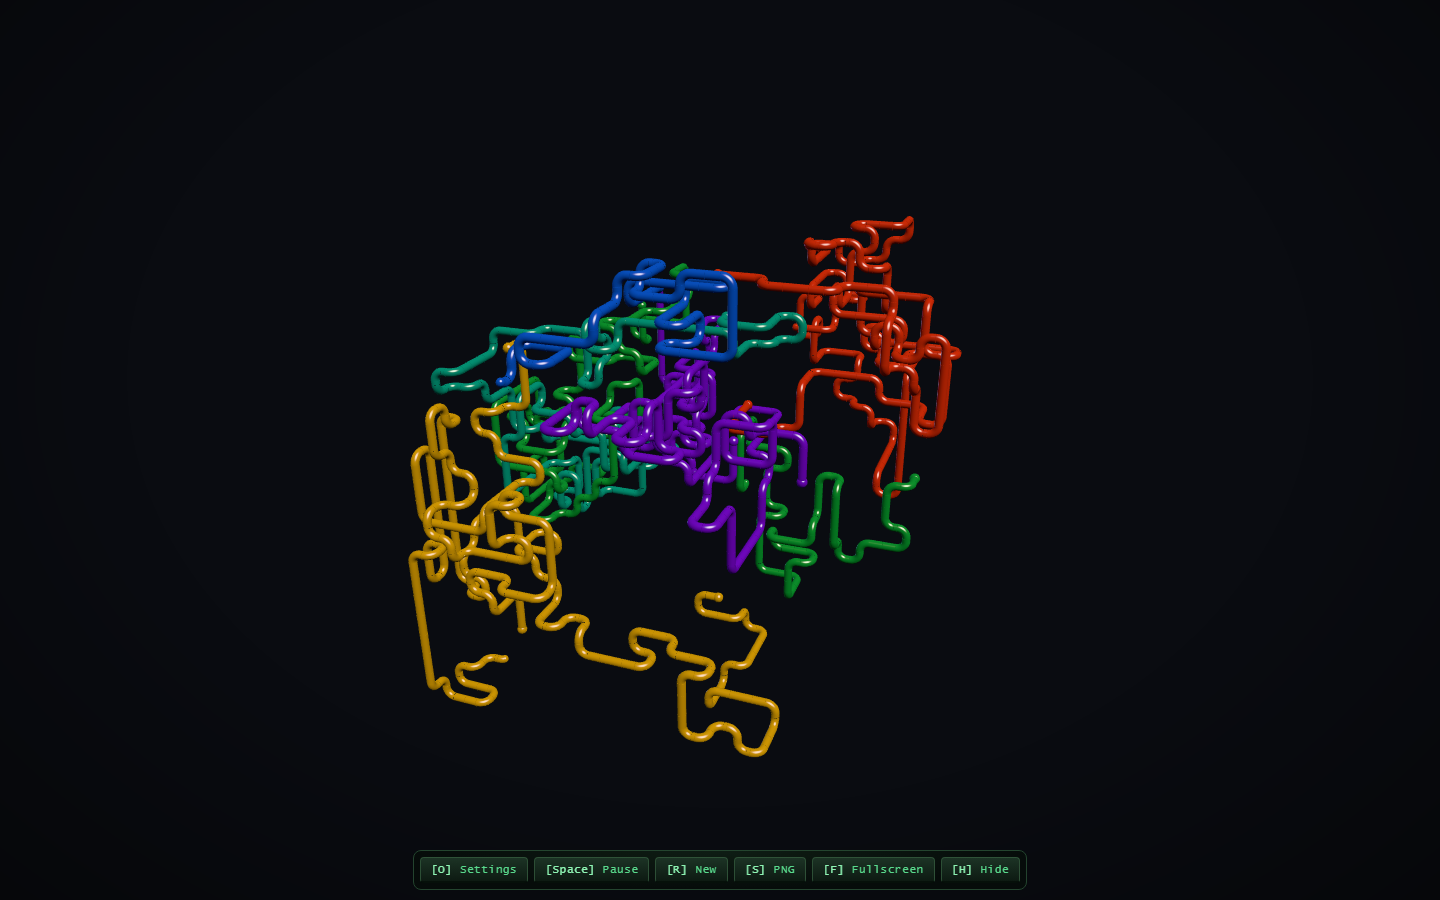
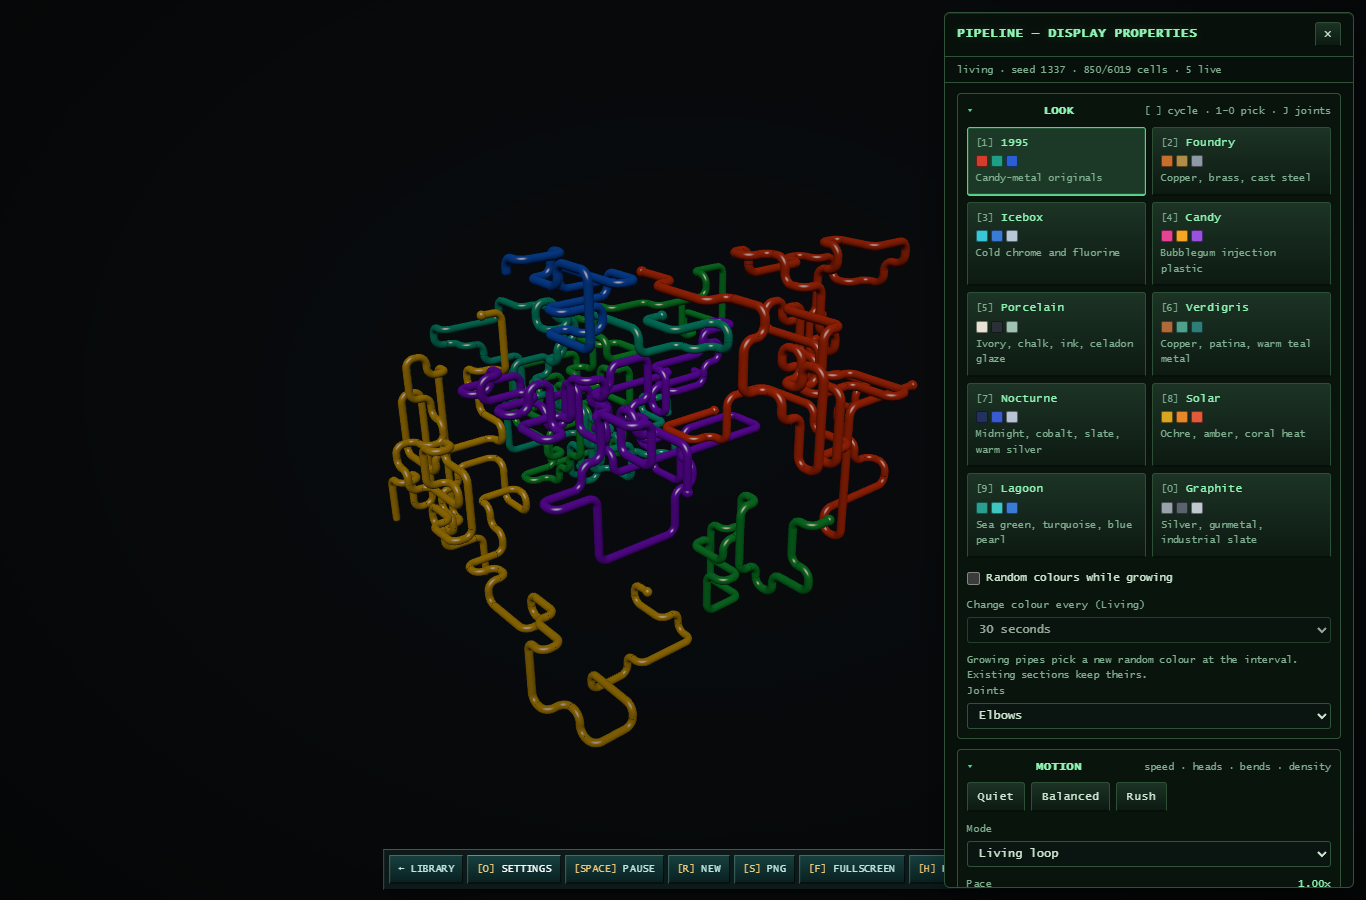
fix: restore Liquid Worlds controls and record collection checks

diff --git a/liquid-worlds/js/app.js b/liquid-worlds/js/app.js
@@ -19,6 +19,13 @@ if(params.has('seed'))settings.seed=validate({seed:Number(params.get('seed'))}).
 function toast(text){$('toast').textContent=text;toastUntil=performance.now()+2600;$('toast').classList.add('visible');}
 function persist(){save(storage,settings);}
 function wake(){lastInteraction=performance.now();if(!hiddenControls)document.body.classList.remove('quiet');}
+function toggleControls(){
+  hiddenControls=!document.body.classList.contains('quiet');
+  document.body.classList.toggle('quiet',hiddenControls);
+  if(hiddenControls)canvas.focus({preventScroll:true});
+  else wake();
+}
+$('restore').addEventListener('click',()=>{hiddenControls=false;wake();canvas.focus({preventScroll:true});});
 function sync(){
   const current=SCENES.find(s=>s.id===settings.scene),index=SCENES.indexOf(current);
   document.documentElement.style.setProperty('--accent',current.color);
@@ -83,7 +90,7 @@ for(const [i,s] of SCENES.entries()){
   const gradients=['radial-gradient(ellipse at 65% 70%,#a8eef1 0%,#344d65 25%,#08121d 75%)','linear-gradient(130deg,#101d2b 15%,#da9559 48%,#596978 65%,#18232c)','linear-gradient(130deg,#bfc790,#537c49 40%,#88c9bd 65%,#1a4949)'];
   b.innerHTML=`<span class="swatch" style="background:${gradients[i]}"></span><span><strong>${s.name}</strong><small>${s.subtitle}</small></span>`;b.addEventListener('click',()=>travel(s.id));$('scenes').append(b);
 }
-for(const [id,fn] of Object.entries({prev:()=>next(-1),next:()=>next(),pause:togglePause,settingsButton:()=>setPanel(true),close:()=>setPanel(false),fullscreen,snapshot,hide:()=>{hiddenControls=true;document.body.classList.add('quiet');canvas.focus();},applySeed:()=>{settings.seed=validate({seed:Number($('seed').value)}).seed;persist();sync();travel(settings.scene);},newSeed:()=>{settings.seed=(settings.seed+7919)%2147483648;persist();sync();travel(settings.scene);},resetCamera:()=>{view?.reset();dirty=true;toast('View restored');}}))$(id).addEventListener('click',fn);
+for(const [id,fn] of Object.entries({prev:()=>next(-1),next:()=>next(),pause:togglePause,settingsButton:()=>setPanel(true),close:()=>setPanel(false),fullscreen,snapshot,hide:toggleControls,applySeed:()=>{settings.seed=validate({seed:Number($('seed').value)}).seed;persist();sync();travel(settings.scene);},newSeed:()=>{settings.seed=(settings.seed+7919)%2147483648;persist();sync();travel(settings.scene);},resetCamera:()=>{view?.reset();dirty=true;toast('View restored');}}))$(id).addEventListener('click',fn);
 $('backdrop').addEventListener('click',()=>setPanel(false));
 for(const id of ['quality','speed','activity','camera','interval','bloom','cycle']){
   $(id).addEventListener(['speed','activity'].includes(id)?'input':'change',()=>{
@@ -111,7 +118,7 @@ document.addEventListener('keydown',e=>{
   if(k==='o'){setPanel(!panelOpen);e.preventDefault();return;}
   if(panelOpen)return;
   if(k===' '){togglePause();e.preventDefault();}
-  else if(k==='f')fullscreen();else if(k==='s')snapshot();else if(k==='h')$('hide').click();
+  else if(k==='f')fullscreen();else if(k==='s')snapshot();else if(k==='h')toggleControls();
   else if(k==='a'){settings.camera=settings.camera==='drift'?'fixed':'drift';view?.reset();persist();sync();dirty=true;toast(settings.camera==='drift'?'Camera drifting':'Viewpoint held');}
   else if(k==='r')$('newSeed').click();else if((k==='['||k==='p'))next(-1);else if((k===']'||k==='n'))next();else if(['1','2','3'].includes(k))travel(SCENES[Number(k)-1].id);
   wake();

diff --git a/liquid-worlds/style.css b/liquid-worlds/style.css
@@ -14,8 +14,11 @@ button:focus-visible,input:focus-visible,select:focus-visible,summary:focus-visi
 .drop-mark { color:var(--accent); font-size:28px; vertical-align:middle; }
 #chrome { position:fixed; inset:0; pointer-events:none; opacity:1; transition:opacity .9s ease; background:linear-gradient(#0003,transparent 22%,transparent 65%,#0004); }
 body.quiet #chrome { opacity:0; }
+body.quiet #toast { opacity:0; }
 body.quiet #canvas { cursor:none; }
 body.quiet #chrome button { pointer-events:none; }
+#restore { display:none; position:fixed; left:12px; bottom:max(12px,env(safe-area-inset-bottom)); z-index:4; padding:8px 10px; }
+body.quiet #restore { display:block; opacity:.85; }
 .masthead { display:flex; justify-content:space-between; align-items:center; padding:26px 34px; font-size:10px; letter-spacing:2.2px; text-shadow:0 2px 10px #000; }
 .brand { font-weight:600; }.brand .drop-mark { margin-right:9px; }.edition { opacity:.6; font-size:9px; }
 .scene-caption { position:absolute; left:34px; bottom:122px; text-shadow:0 2px 12px #0008; }

diff --git a/liquid-worlds/index.html b/liquid-worlds/index.html
@@ -31,6 +31,7 @@
     </nav>
     <p class="hint">DRAG TO LOOK · CLICK WATER TO SPLASH · 1 / 2 / 3 TO TRAVEL</p>
   </div>
+  <button id="restore" aria-label="Show controls" title="Show controls">Controls</button>
   <div id="toast" role="status" aria-live="polite"></div>
   <div id="backdrop" hidden></div>
   <aside id="panel" role="dialog" aria-modal="true" aria-labelledby="panelTitle" hidden>

diff --git a/tools/check-collection.py b/tools/check-collection.py
@@ -75,6 +75,23 @@ with sync_playwright() as p:
                 page.screenshot(path=str(ART/(name+"-portrait.png")))
                 page.keyboard.press("Escape")
                 if name=="liquid-worlds":
+                    page.keyboard.press("h")
+                    check("liquid H hides controls",page.evaluate("document.body.classList.contains('quiet')"))
+                    page.wait_for_function("getComputedStyle(document.getElementById('chrome')).opacity === '0'")
+                    page.screenshot(path=str(ART/"liquid-hidden-controls-portrait.png"))
+                    page.keyboard.press("h")
+                    check("liquid H restores controls",not page.evaluate("document.body.classList.contains('quiet')"))
+                    page.keyboard.press("h")
+                    page.locator("#restore").click()
+                    check("liquid restore works without a keyboard",not page.evaluate("document.body.classList.contains('quiet')"))
+                    page.evaluate("document.body.classList.add('quiet')")
+                    page.keyboard.press("h")
+                    check("liquid H restores automatically faded controls",not page.evaluate("document.body.classList.contains('quiet')"))
+                    page.locator("#"+settings).click()
+                    page.locator("#seed").focus()
+                    page.keyboard.press("h")
+                    check("liquid typing does not hide controls",not page.evaluate("document.body.classList.contains('quiet')"))
+                    page.keyboard.press("Escape")
                     before=page.evaluate("LIQUID_WORLDS.settings.scene")
                     page.keyboard.press("n")
                     page.wait_for_timeout(900)

diff --git a/liquid-worlds/README.md b/liquid-worlds/README.md
@@ -25,7 +25,7 @@ This is a browser screensaver, like the sibling projects. It does not install a 
 | **The Crucible** | Three pipe outlets pour rippling metal into a reservoir beneath catwalks and amber windows. A submerged vortex and intersecting impact rings bend the reflected structure. |
 | **Verdant Reach** | A waterfall feeds clear, refractive water over a stone riverbed. Foam collects near the fall and banks, leaves drift downstream, and the canopy moves in the morning light. |
 
-Settings start closed. The title and toolbar fade after seven seconds without interaction. Moving the pointer or using the keyboard reveals them. **H** hides them until **Esc**. The scene keeps running with settings open; paused scenes still allow camera movement, scene changes, and snapshots.
+Settings start closed. The title and toolbar fade after seven seconds without interaction. Moving the pointer or using the keyboard reveals them. **H** toggles the controls; **Esc** or the **Controls** button also restores them. The scene keeps running with settings open; paused scenes still allow camera movement, scene changes, and snapshots.
 
 ## Controls
 
@@ -36,7 +36,7 @@ Settings start closed. The title and toolbar fade after seven seconds without in
 | Choose scene | **1**, **2**, **3** |
 | Previous / next | **[** / **]** |
 | Fullscreen | **F** |
-| Clean view | **H**; **Esc** restores |
+| Hide / show controls | **H**; **Esc** or **Controls** also restores |
 | Save scene as PNG | **S** |
 | Camera drift / still | **A** |
 | New seeded landscape | **R** |

diff --git a/README.md b/README.md
@@ -42,5 +42,8 @@ The local server is required for the projects that use JavaScript modules.
 - Each project's original README and regression checks remain in its folder.
 
 Only the six named projects were moved from projects-js. Its Git history retains
-their original versions. The source repository's deletions are left uncommitted;
-the initial collection commit belongs to this screensavers repository.
+their original versions. The source repository's migration deletions are recorded
+in Git, and all 226 former source paths have corresponding files in this collection.
+
+
+November 14, 2026 publication check: all six projects opened from the library, settings and portrait controls fit, and Liquid Worlds controls restored with H and the visible Controls button. The collection browser checks passed without browser, network or shader errors. Original projects-js history remains available.
